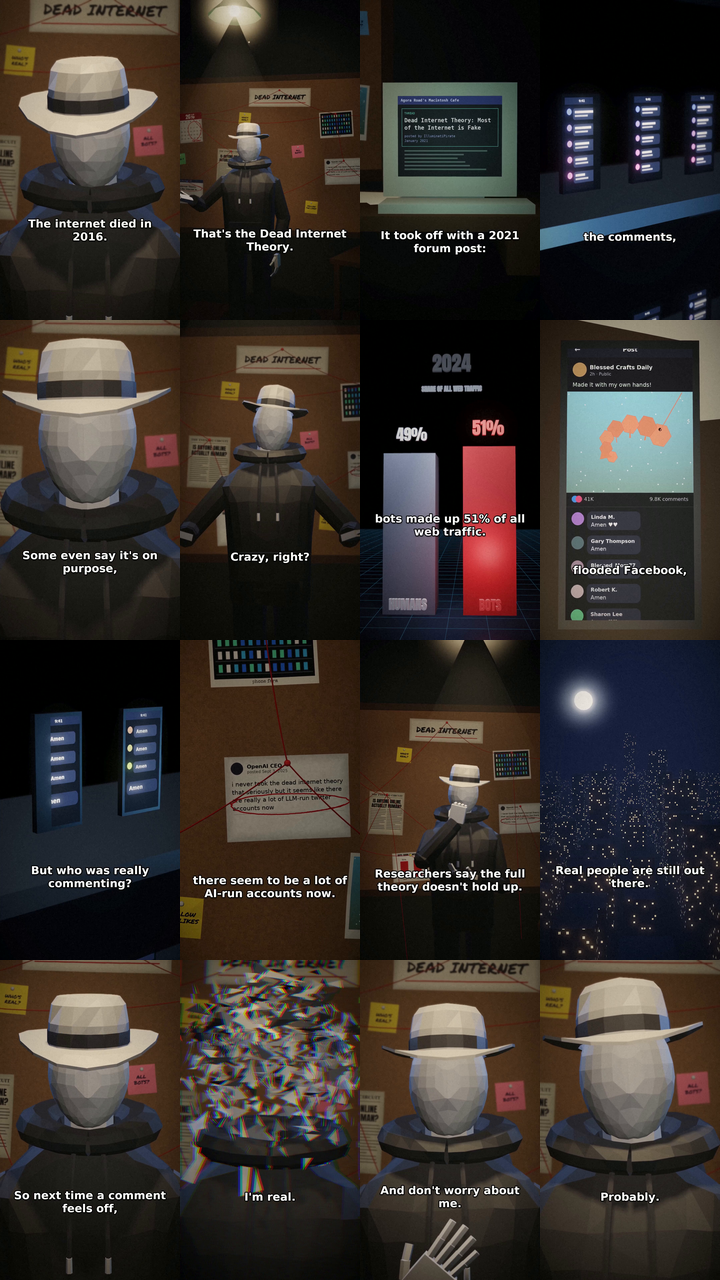
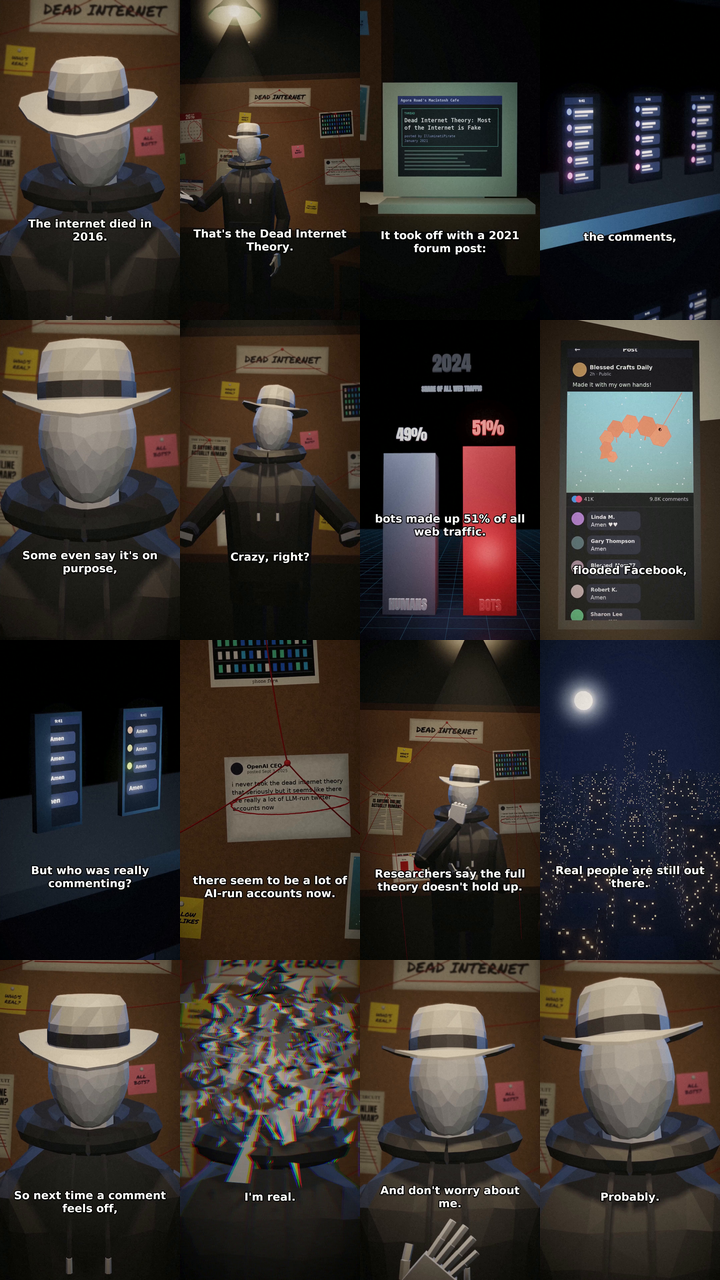
hooded-man: blank face, no nose
GJ's note: in close-ups the long nose ridge with a rounded tip read as
phallic. The face is now blank (NOSE = 'none'); a short triangular 'wedge'
nose stays available but sat low and looked like a mouth.
- Previews redrawn; repo rebuild verified (assets identical, who/debunk
  scenes byte-identical to the delivered ones).

Claude-Session: https://claude.ai/code/session_01XgkZbj7ikTSTMJv7mLdgiD

Changed region(s): [[0.2444, 0.75, 0.5194, 0.9375]]

diff --git a/kids-songs/hooded-man/build_man.py b/kids-songs/hooded-man/build_man.py
@@ -7,6 +7,7 @@ Every part is exported in the local frame of the node it hangs from (see rig.py)
   legs (world, pivot 0)
 """
 import math
+import os
 import os as _os, sys as _sys
 _sys.path.insert(0, _os.path.join(_os.path.dirname(_os.path.abspath(__file__)), '..', '..', 'shared', 'lowpoly-gl'))
 import numpy as np
@@ -21,6 +22,7 @@ SKULL_R = np.array([0.088, 0.104, 0.126])   # half sizes x (width), y (depth), z
 HAT_TILT = math.radians(-4)  # forward tilt of the hat (about X)
 HAT_BASE = np.array([0.0, -0.002, 0.172])
 TORSO_RATIO = 0.55
+NOSE = os.environ.get('HM_NOSE', 'none')    # 'none' or 'wedge'; a long nose ridge read as phallic in close-ups
 
 
 def head_mesh():
@@ -37,11 +39,12 @@ def head_mesh():
     front = np.clip(-y, 0, 1)
     chin = np.exp(-(x / 0.35) ** 2 - ((z + 0.80) / 0.18) ** 2) * front
     Y = Y - 0.006 * chin
-    t = np.clip((0.06 - z) / 0.34, 0, 1)
-    below = np.clip((-0.28 - z) / 0.08, 0, 1)
-    prof = t ** 1.5 * (1 - below) ** 2
-    nose = prof * np.exp(-(x / 0.16) ** 2) * front ** 4
-    Y = Y - 0.012 * nose
+    if NOSE == 'wedge':                       # short triangle: narrow bridge, broad base, flat underside
+        t = np.clip((0.0 - z) / 0.22, 0, 1)
+        below = np.clip((-0.22 - z) / 0.04, 0, 1)
+        w = 0.05 + 0.15 * t
+        nose = t * (1 - below) ** 2 * np.exp(-(x / w) ** 2) * front ** 4
+        Y = Y - 0.010 * nose
     m = M(np.stack([X, Y, Z], 1) + SKULL_C, s.f)
     return decimate(m, HEAD_RATIO, True, 'head')
 

diff --git a/kids-songs/hooded-man/README.md b/kids-songs/hooded-man/README.md
@@ -8,7 +8,7 @@ The low-poly hooded man from The Dead Internet Theory: a faceless faceted manneq
 ![preview](preview.png)
 
 **Used in:** every shot with the man in The Dead Internet Theory (Story Time with Kenji, Nov 2026, `../dead-internet-theory`).
-- **Verified:** `pose_sheet.py` rebuilt the 26 parts (4,529 triangles) from this folder, byte-identical to the man in the episode's `assets.npz`, and drew `preview.png`.
+- **Verified:** `pose_sheet.py` rebuilt the 26 parts (4,527 triangles) from this folder, byte-identical to the man in the episode's `assets.npz`, and drew `preview.png`.
 
 ## Files
 - `rig.py`: the rest pose (hip, head and shoulder pivots, arm lengths), the colours, and the hand poses as finger curl angles.
@@ -51,7 +51,8 @@ items = man.items(pose)                                   # + your set's items -
 - **His face (GJ's notes on the first version):**
   - Eye-socket dents and a brow ridge rendered as dark, slanted facets under the brim, which read as an angry frown.
   - A 15 cm-wide skull under the wide brim and the big hood ring read as a really small face.
-  - The head is now 17.6 cm wide, with a fuller jaw, a plain face, a soft nose ridge and a slightly higher hat.
+  - The head is now 17.6 cm wide, with a fuller jaw and a slightly higher hat.
+  - A long nose ridge with a rounded tip read as phallic in close-ups. The face is now blank (`NOSE = 'none'`). A short triangular `'wedge'` nose is still available, but it sat low and looked like a mouth.
   - Keep the face plain, and light it from the front (the episode's `FACE_KEY` spot) so the brim shadow doesn't hide its top half.
 - **Portrait frames are narrow.** At 1.2 m with a 30° lens, the frame is only about 0.36 m wide. A hand held out at arm's length leaves it, so keep gestures near the body's centre line for close shots.
 - **Pointing straight at the camera** reads as a claw, because the finger is foreshortened. The episode switched that beat to a temple tap.
